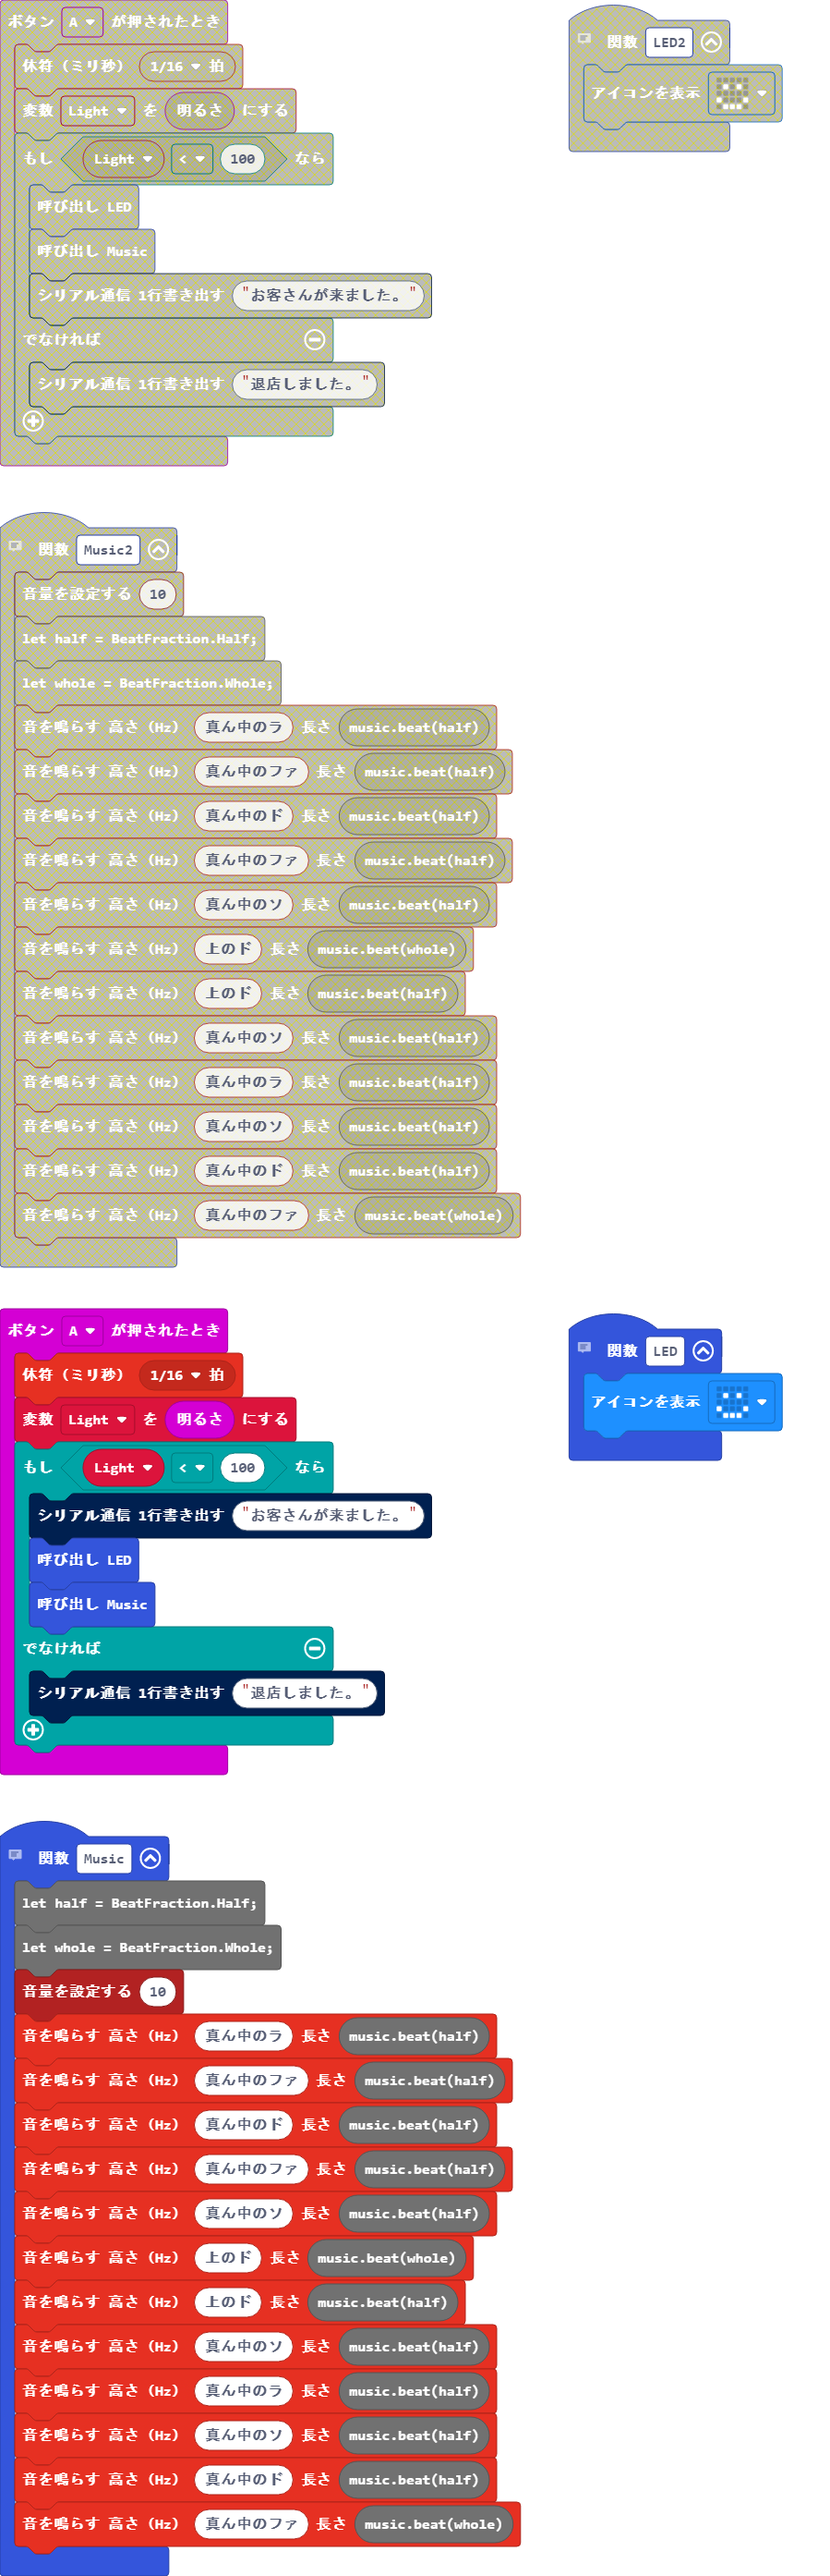
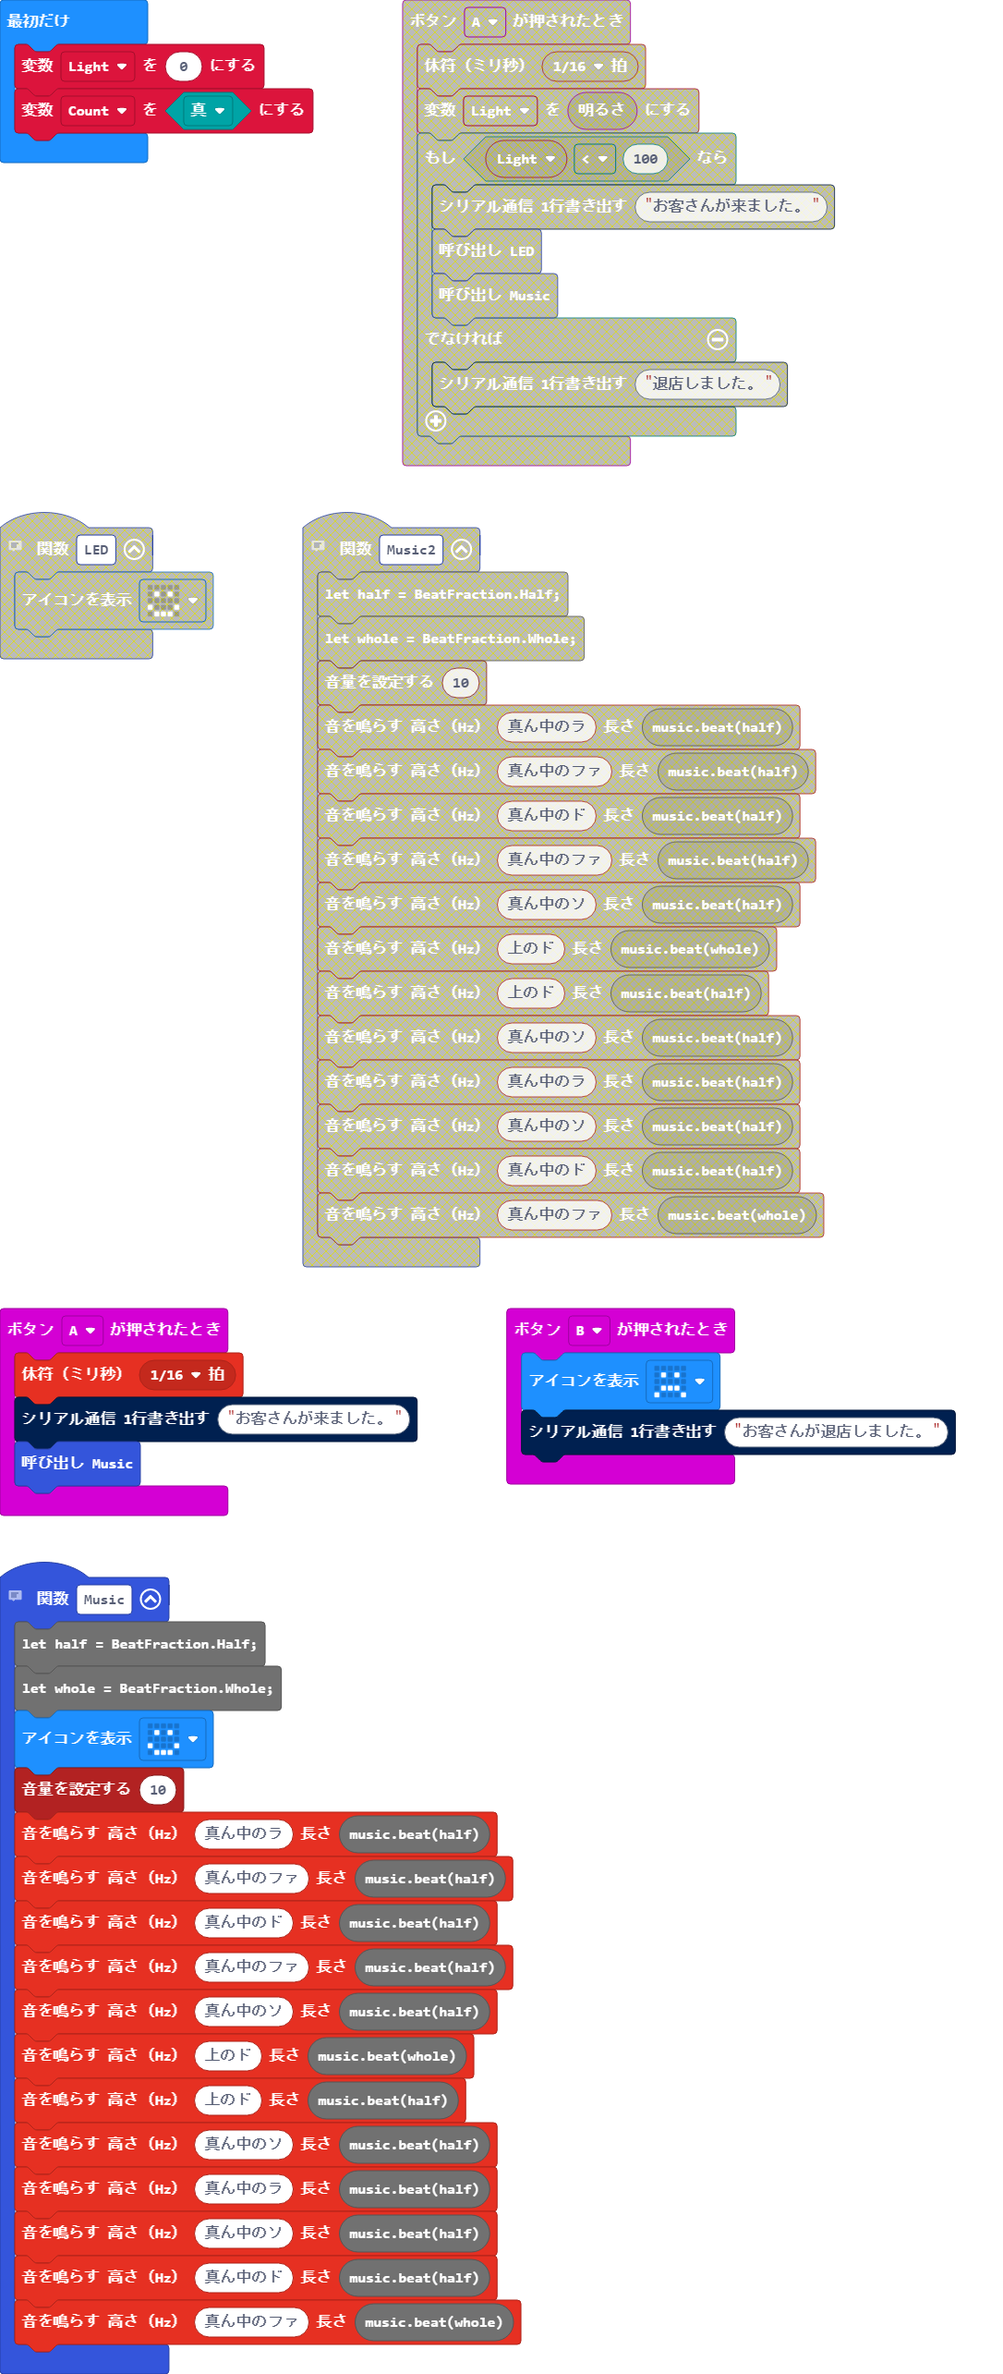
Update pxt.json, main.blocks, main.ts

diff --git a/main.ts b/main.ts
@@ -1,20 +1,14 @@
-let Light = 0
 input.onButtonPressed(Button.A, function () {
     music.rest(music.beat(BeatFraction.Sixteenth))
-    Light = input.lightLevel()
-    if (Light < 100) {
-        serial.writeLine("お客さんが来ました。")
-        LED()
-        Music()
-    } else {
-        serial.writeLine("退店しました。")
-    }
+    serial.writeLine("お客さんが来ました。")
+    Music()
 })
-// 音鳴らす処理
+// 入店
 function Music () {
     let half = BeatFraction.Half;
 let whole = BeatFraction.Whole;
-pins.analogSetPitchVolume(10)
+basic.showIcon(IconNames.Happy)
+    pins.analogSetPitchVolume(10)
     music.playTone(440, music.beat(half))
     music.playTone(349, music.beat(half))
     music.playTone(262, music.beat(half))
@@ -27,8 +21,12 @@ pins.analogSetPitchVolume(10)
     music.playTone(392, music.beat(half))
     music.playTone(262, music.beat(half))
     music.playTone(349, music.beat(whole))
+    basic.clearScreen()
 }
-// 光らせる処理
-function LED () {
-    basic.showIcon(IconNames.Happy)
-}
+input.onButtonPressed(Button.B, function () {
+    basic.showIcon(IconNames.Sad)
+    serial.writeLine("お客さんが退店しました。")
+    basic.clearScreen()
+})
+let Light = 0
+let Count = true
